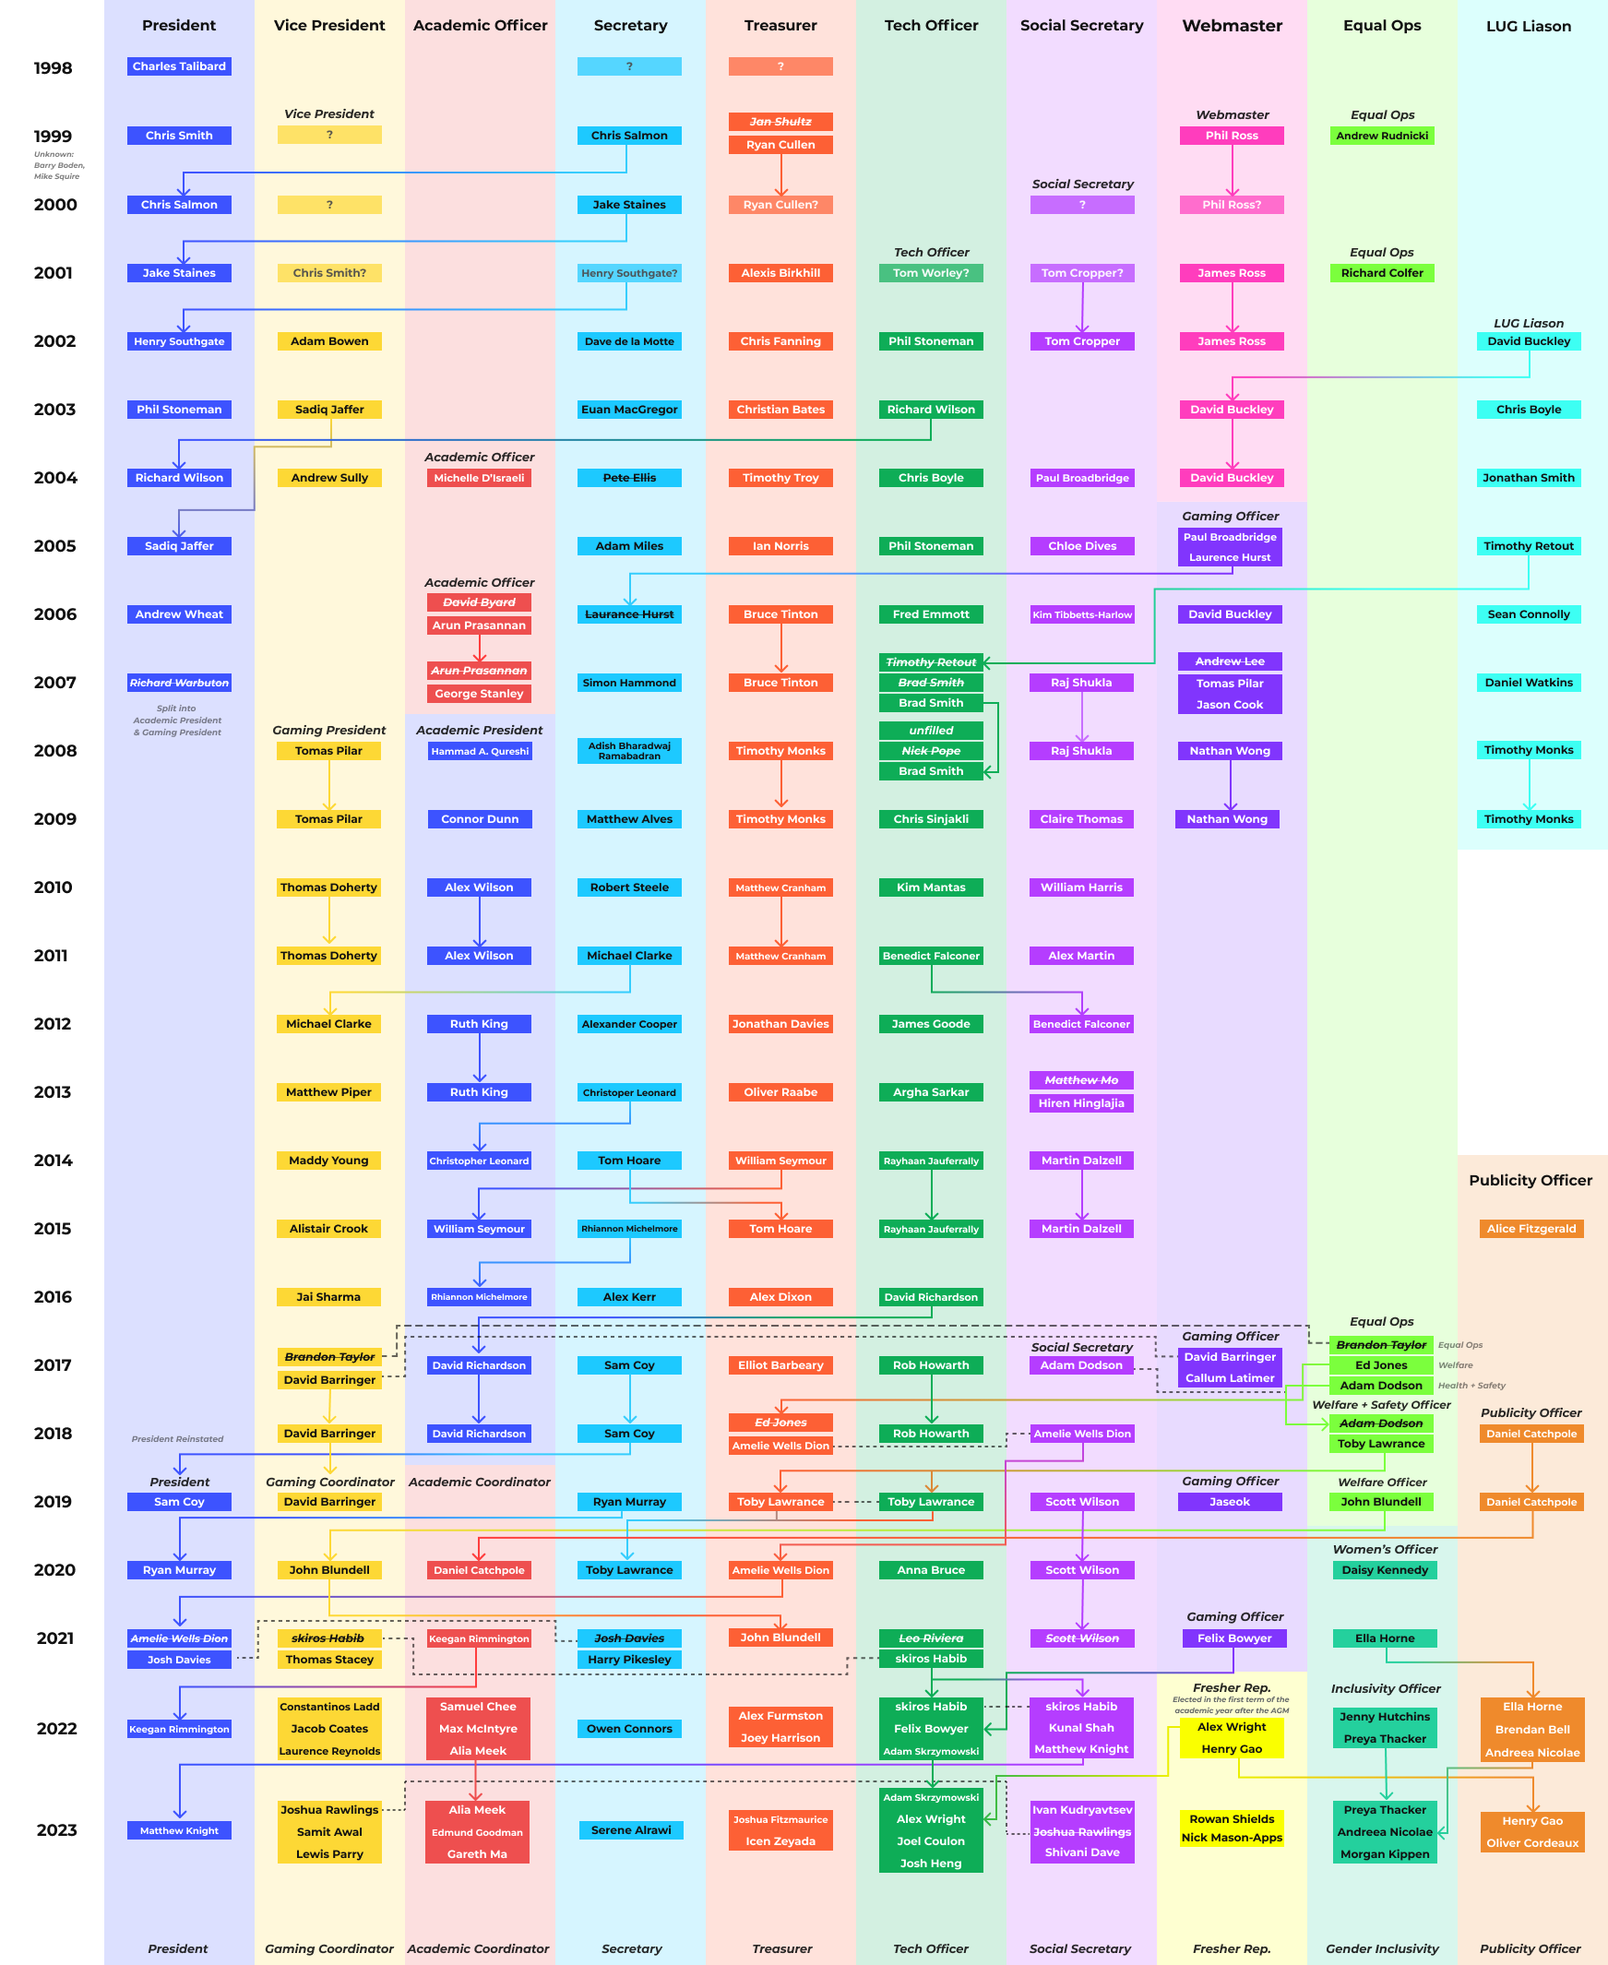
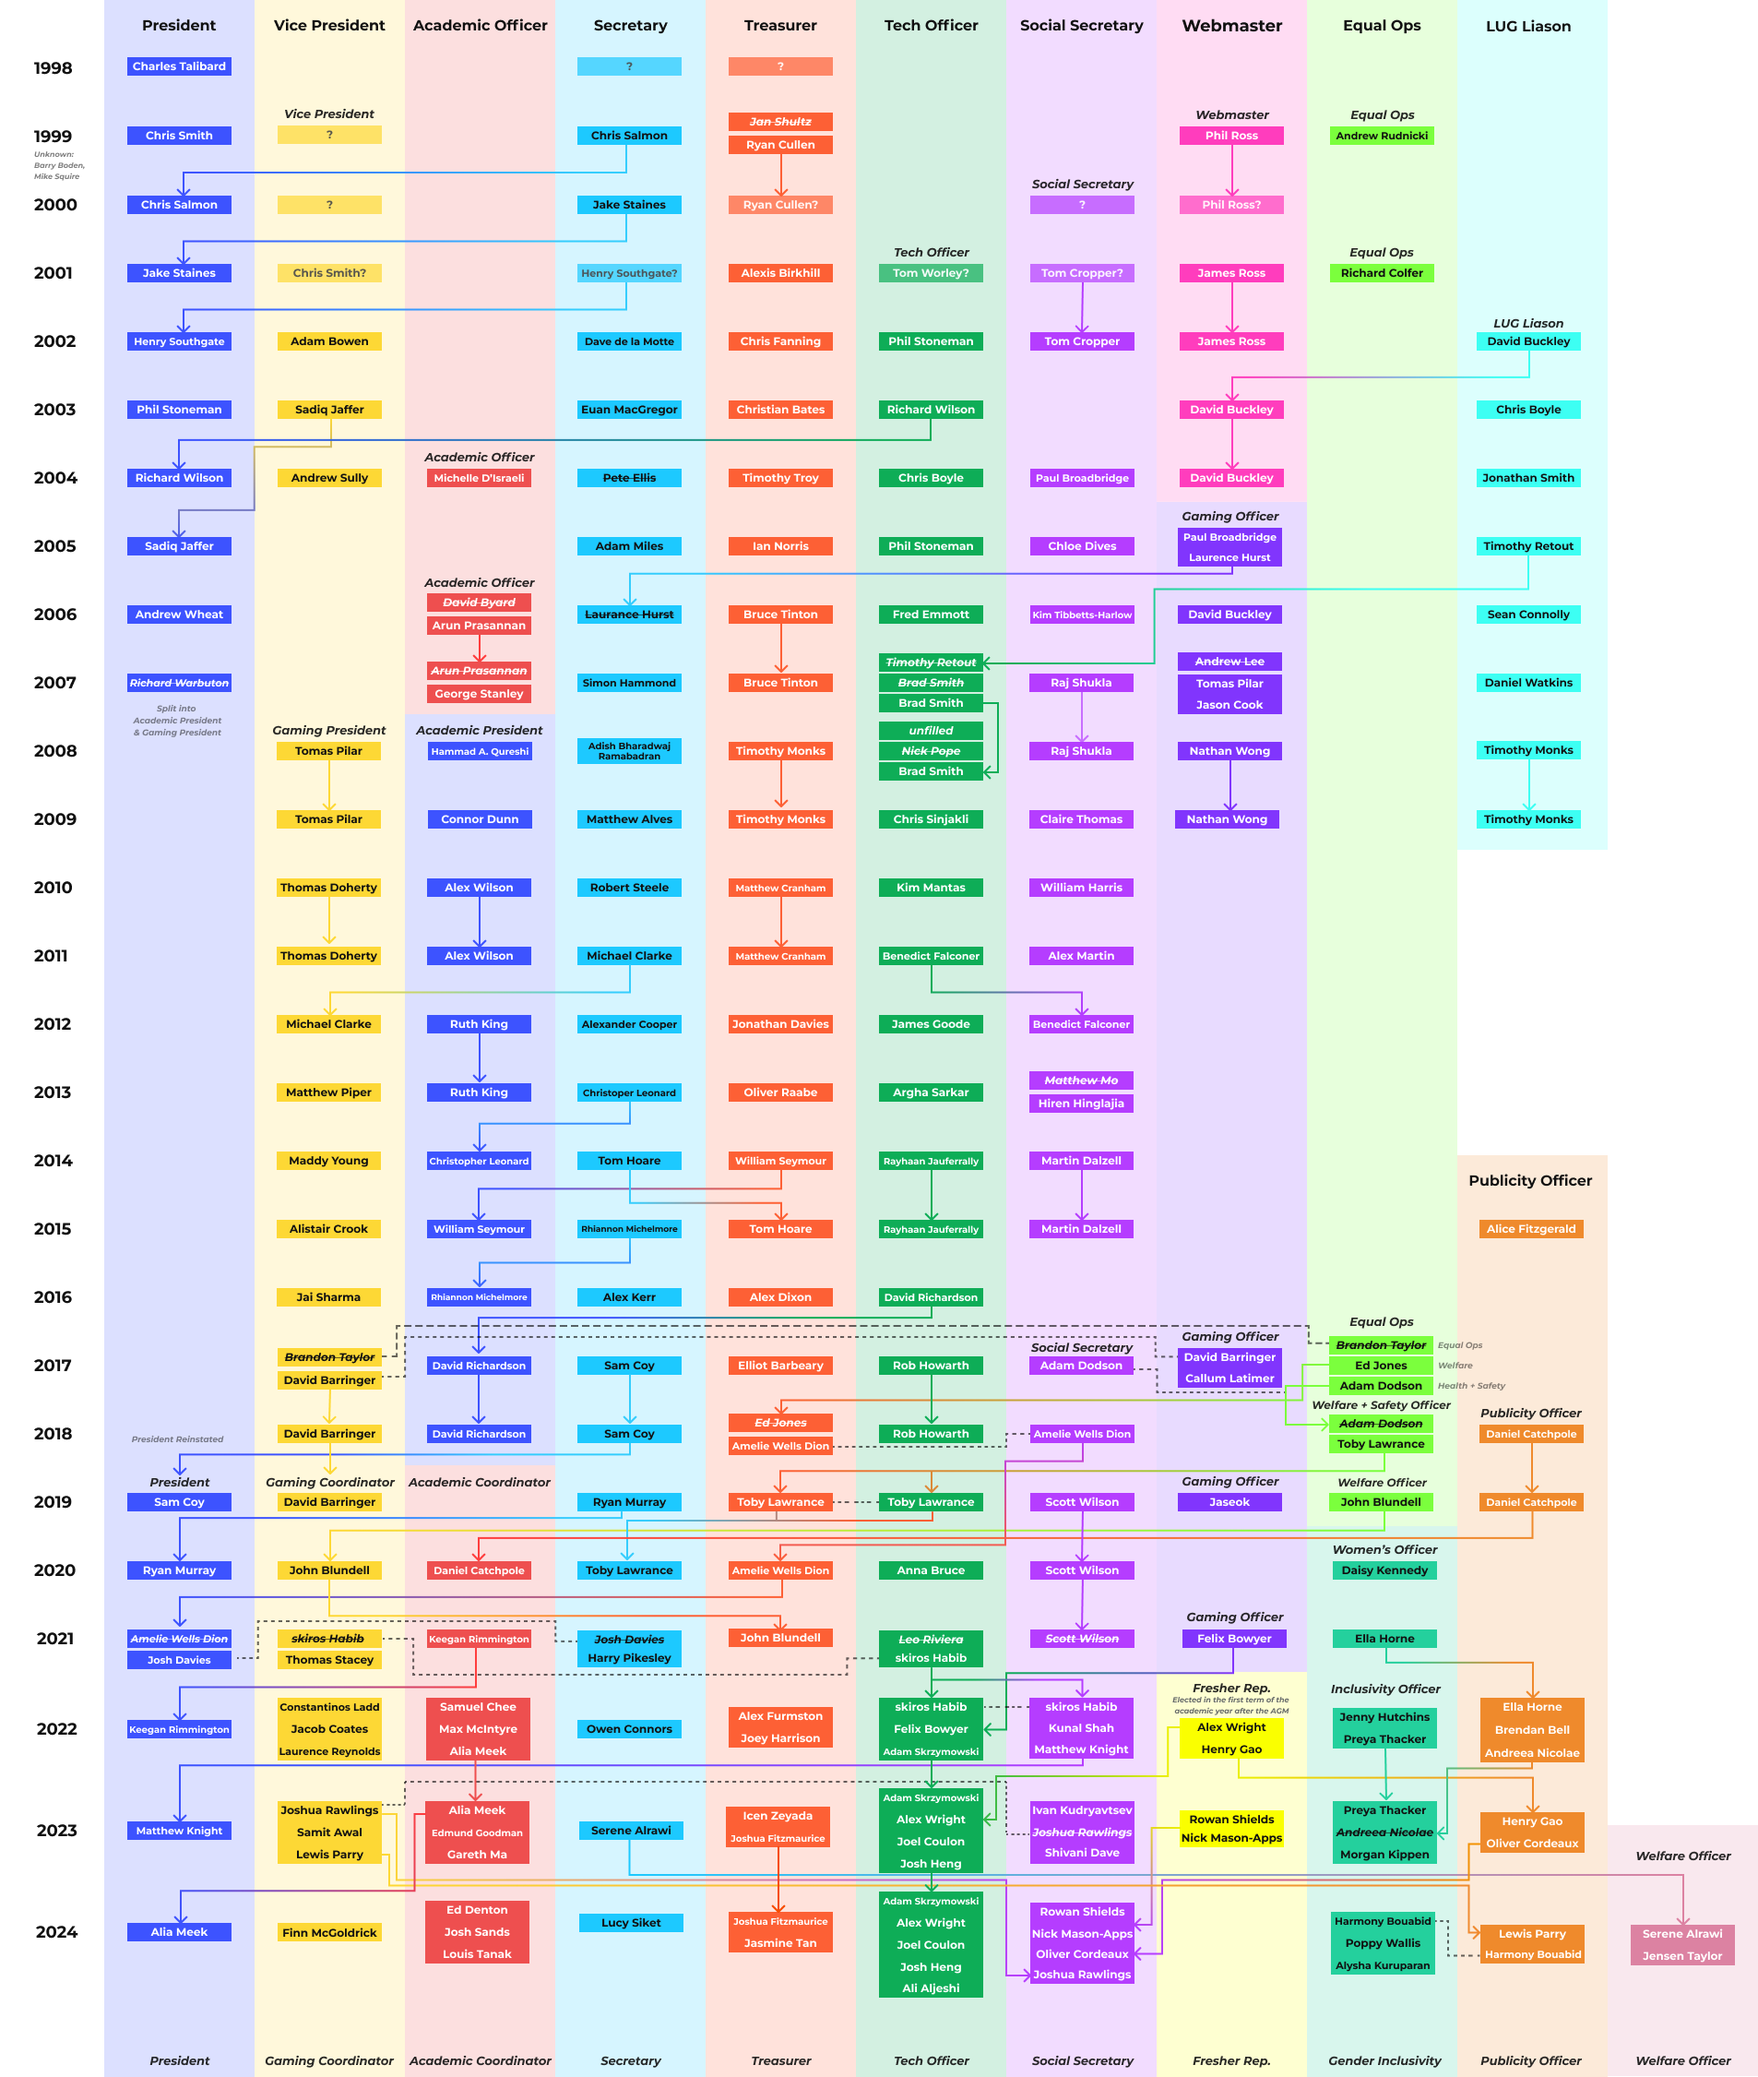
updated exec history

diff --git a/content/exec/tech.md b/content/exec/tech.md
@@ -4,7 +4,7 @@ weight = 7
 date = "1970-01-01"
 
 [extra]
-people = ["Joel Coulon", "Alex Wright", "Adam Skrzymowski", "Josh Heng"]
+people = ["Joel Coulon", "Alex Wright", "Adam Skrzymowski", "Josh Heng", "Ali Aljeshi"]
 email = "tech@uwcs.co.uk"
 +++
 

diff --git a/content/exec/social.md b/content/exec/social.md
@@ -4,7 +4,7 @@ weight = 8
 date = "1970-01-01"
 
 [extra]
-people = ["Ivan Kudryavtsev", "Shivani Dave"]
+people = ["Nicholas Mason-Apps", "Rowan Shields", "Oliver Cordeaux", "Joshua Rawlings"]
 email = "socials@uwcs.co.uk"
 +++
 

diff --git a/content/exec/inclusivity.md b/content/exec/inclusivity.md
@@ -4,7 +4,7 @@ weight = 6
 date = "1970-01-01"
 
 [extra]
-people = ["Morgan Kippen", "Andreea Nicolae", "Preya Thaker"]
+people = ["Harmony Bouabid", "Poppy Wallis", "Alysha Kuruparan"]
 email = "inclusivity@uwcs.co.uk"
 +++
 

diff --git a/content/exec/academic.md b/content/exec/academic.md
@@ -4,7 +4,7 @@ weight = 4
 date = "1970-01-01"
 
 [extra]
-people = ["Alia Meek", "Edmund Goodman", "Gareth Ma"]
+people = ["Ed Denton", "Josh Sands", "Louis Tanak"]
 email = "academic@uwcs.co.uk"
 +++
 

diff --git a/content/exec/gaming.md b/content/exec/gaming.md
@@ -4,7 +4,7 @@ weight = 5
 date = "1970-01-01"
 
 [extra]
-people = ["Joshua Rawlings", "Samit Awal"," Lewis Parry"]
+people = ["Finn McGoldrick"]
 email = "gaming-coordinator@uwcs.co.uk"
 +++
 

diff --git a/content/exec/treasurer.md b/content/exec/treasurer.md
@@ -4,7 +4,7 @@ weight = 3
 date = "1970-01-01"
 
 [extra]
-people = ["Joshua Fitzmaurice", "Icen Zeyada"]
+people = ["Joshua Fitzmaurice", "Jasmine Tan"]
 email = "treasurer@uwcs.co.uk"
 +++
 

diff --git a/content/exec/publicity.md b/content/exec/publicity.md
@@ -4,7 +4,7 @@ weight = 8
 date = "1970-01-01"
 
 [extra]
-people = ["Oliver Cordeaux", "Henry Gao"]
+people = ["Harmony Bouabid", "Lewis Parry"]
 email = "publicity@uwcs.co.uk"
 +++
 

diff --git a/content/exec/welfare.md b/content/exec/welfare.md
@@ -4,7 +4,7 @@ weight = 9
 date = "1970-01-01"
 
 [extra]
-people = ["Alia Meek"]
+people = ["Jensen Taylor", "Serene Alrawi"]
 email = "welfare@uwcs.co.uk"
 +++
 

diff --git a/content/exec/president.md b/content/exec/president.md
@@ -4,7 +4,7 @@ weight = 1
 date = "1970-01-01"
 
 [extra]
-people = ["Matthew Knight"]
+people = ["Alia Meek"]
 email = "president@uwcs.co.uk"
 +++
 

diff --git a/content/exec/secretary.md b/content/exec/secretary.md
@@ -4,7 +4,7 @@ weight = 2
 date = "1970-01-01"
 
 [extra]
-people = ["Serene Alrawi"]
+people = ["Lucy Siket"]
 email = "secretary@uwcs.co.uk"
 +++
 
